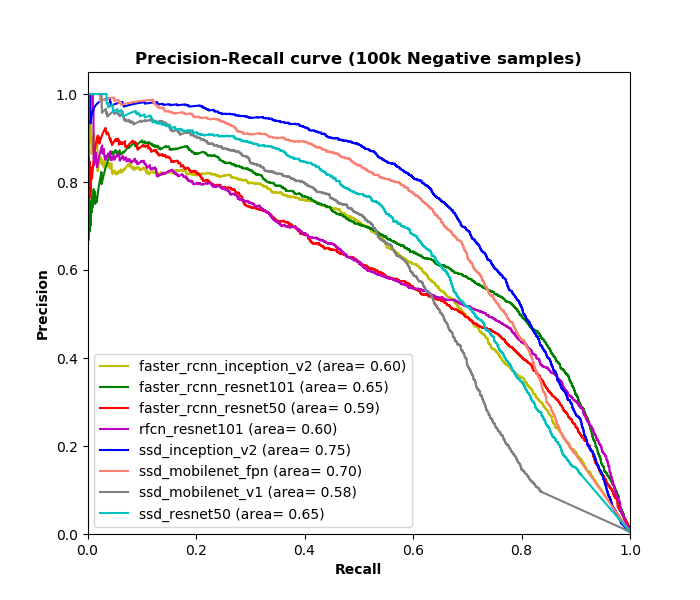
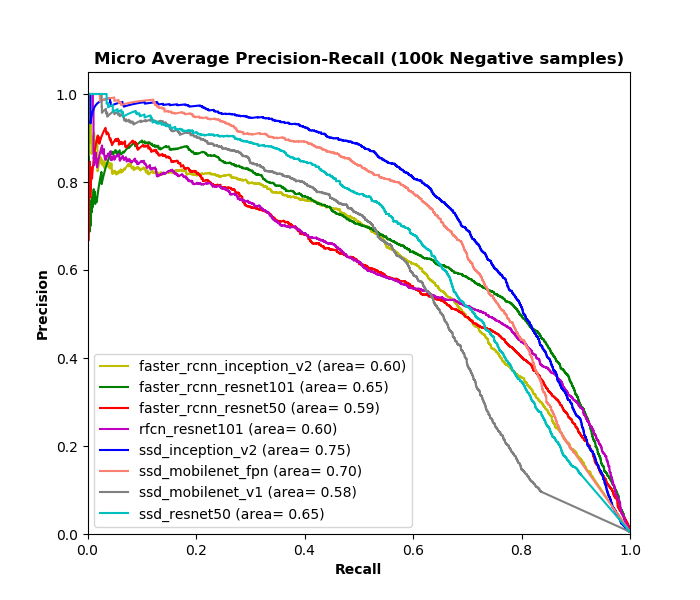
change title of figs

Changed region(s): [[0.12, 0.09, 0.9, 0.12]]

diff --git a/code_visualization_eval/visualize_score.py b/code_visualization_eval/visualize_score.py
@@ -102,8 +102,10 @@ def plot_precision_recall_curve2(neg_sample=150000):
         df_neg =df_neg.sample(n=neg_sample,random_state=1)
         df_combined = pd.concat([df_pos, df_neg], ignore_index=True, sort =False)
         print(df_combined)
+        
         # y_score = df_pos.iloc[:,:5].values
         # y_test = df_pos.iloc[:,5:].values
+
         y_score = df_combined.iloc[:,:5].values
         y_test = df_combined.iloc[:,5:].values
         # Compute micro-average ROC curve and ROC area
@@ -116,10 +118,10 @@ def plot_precision_recall_curve2(neg_sample=150000):
     plt.ylim([0.0, 1.05])
     plt.xlabel('Recall',fontweight='bold')
     plt.ylabel('Precision',fontweight='bold')
-    # plt.title('Precision-Recall curve (50k Negative samples)',fontweight='bold')
-    # plt.title('Precision-Recall curve (100k Negative samples)',fontweight='bold')
-    plt.title('Precision-Recall curve (150k Negative samples)',fontweight='bold')
-    # plt.title('Precision-Recall curve (1.8k Positive samples Only)',fontweight='bold')
+    # plt.title('Micro Average Precision-Recall (50k Negative samples)',fontweight='bold')
+    # plt.title('Micro Average Precision-Recall (100k Negative samples)',fontweight='bold')
+    plt.title('Micro Average Precision-Recall (150k Negative samples)',fontweight='bold')
+    # plt.title('Micro Average Precision-Recall (1.8k Positive samples)',fontweight='bold')
 
 
     plt.legend(loc="lower left")
